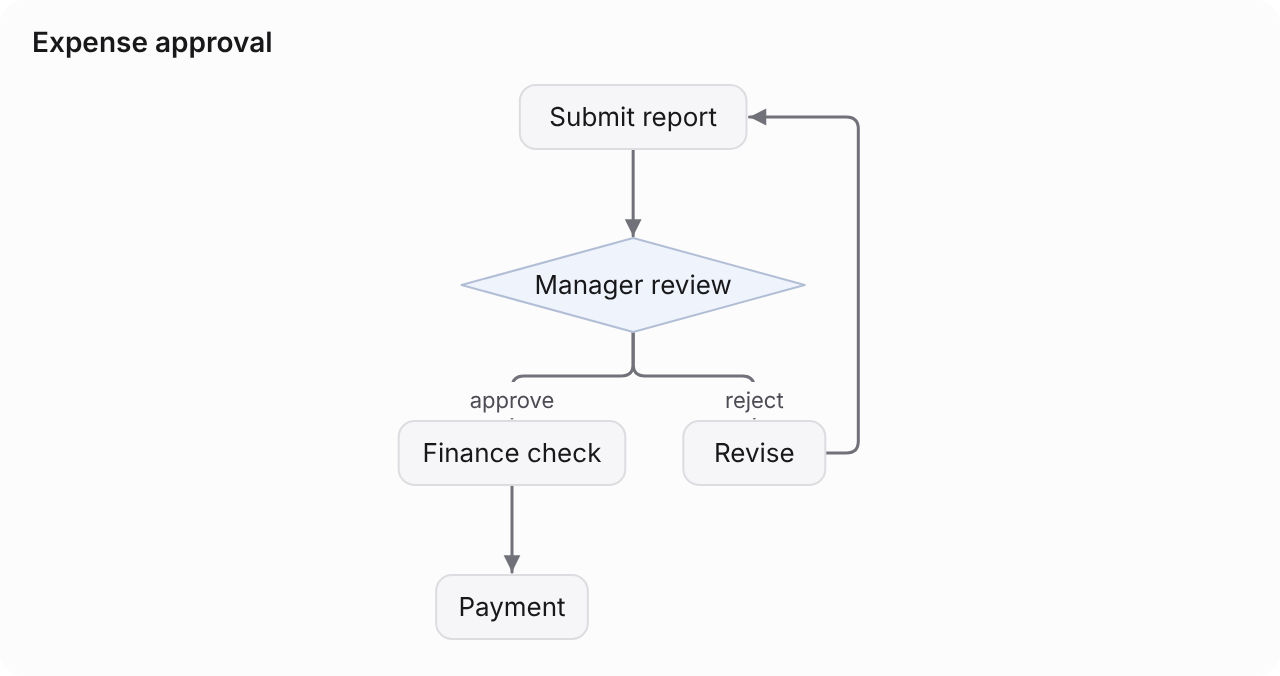
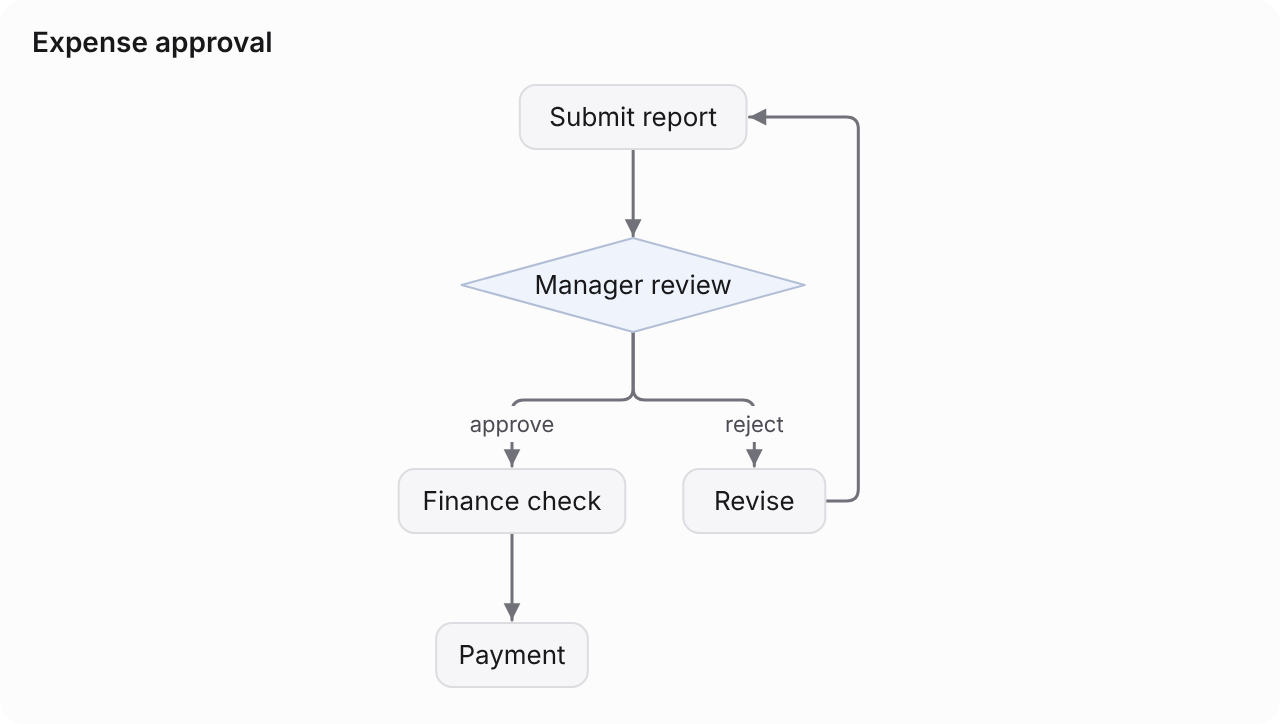
fix(flow): 縦向きの分岐ラベルが行き先の矢印を隠さないようにする（0.3.1）
ラベル付きの辺が出る段の下だけ間隔を 24px 広げる。段の間隔 44px に高さ 18px の
ラベルを置くと、行き先の箱までの線と矢印の先端がラベルの下に隠れていた。

Claude-Session: https://claude.ai/code/session_01Pc6vbAmpqXP4Kfg7mjJKm3

diff --git a/packages/core/src/render/flow.ts b/packages/core/src/render/flow.ts
@@ -15,6 +15,8 @@ const NODE_SIZE = 13;
 const LINE_H = 17;
 const RANK_GAP = { TB: 44, LR: 64 };
 const NODE_GAP = 28;
+/** 縦向きで、ラベル付きの辺が出る段の下に足す間隔（ラベルの下に矢印が見えるように）。 */
+const LABEL_ROOM = 24;
 
 interface Box {
   id: string;
@@ -163,11 +165,14 @@ function layoutOnce(ctx: Ctx, f: FlowFigure, dir: "TB" | "LR"): { items: Ctx["it
   const along = (b: Box) => (dir === "TB" ? b.h : b.w); // 段方向の大きさ
   const across = (b: Box) => (dir === "TB" ? b.w : b.h); // 交差方向の大きさ
   const gap = NODE_GAP;
+  // 縦向きのラベルは出発側の縦線の上に置くので、その段の下だけ広げて矢印を隠さない
+  const labeled = new Set<number>();
+  if (dir === "TB") for (const { edge, ids } of chains) if (edge.label) labeled.add(boxes.get(ids[0]!)!.rank);
   let rPos = 0;
-  ranks.forEach((rk) => {
+  ranks.forEach((rk, i) => {
     const thick = Math.max(...rk.map(along));
     rk.forEach((b) => (b.r = rPos + thick / 2));
-    rPos += thick + RANK_GAP[dir];
+    rPos += thick + RANK_GAP[dir] + (labeled.has(i) ? LABEL_ROOM : 0);
   });
   const place = (rk: Box[], desired: (b: Box) => number) => {
     let cursor = -Infinity;
